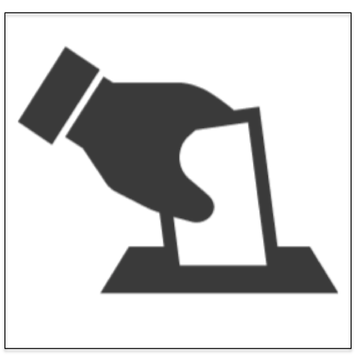
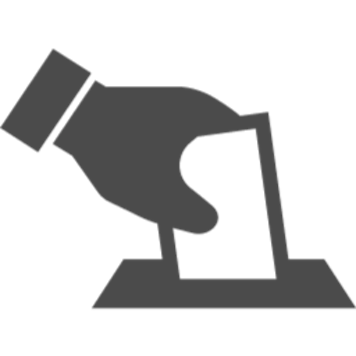
voteiconの線修正

Changed region(s): [[0.0, 0.0309, 1.0, 0.9888]]

diff --git a/app/webroot/css/vote_css.css b/app/webroot/css/vote_css.css
@@ -27,6 +27,8 @@
 .topVoteIcon {
     width: 27%;
 	margin: 5%;
+    border-style: solid;
+    border-width: 1px;
 
 	-webkit-box-shadow: 2px 2px 8px rgba(0,0,0,.5);
   	-moz-box-shadow: 2px 4px 8px rgba(0,0,0,.5);
